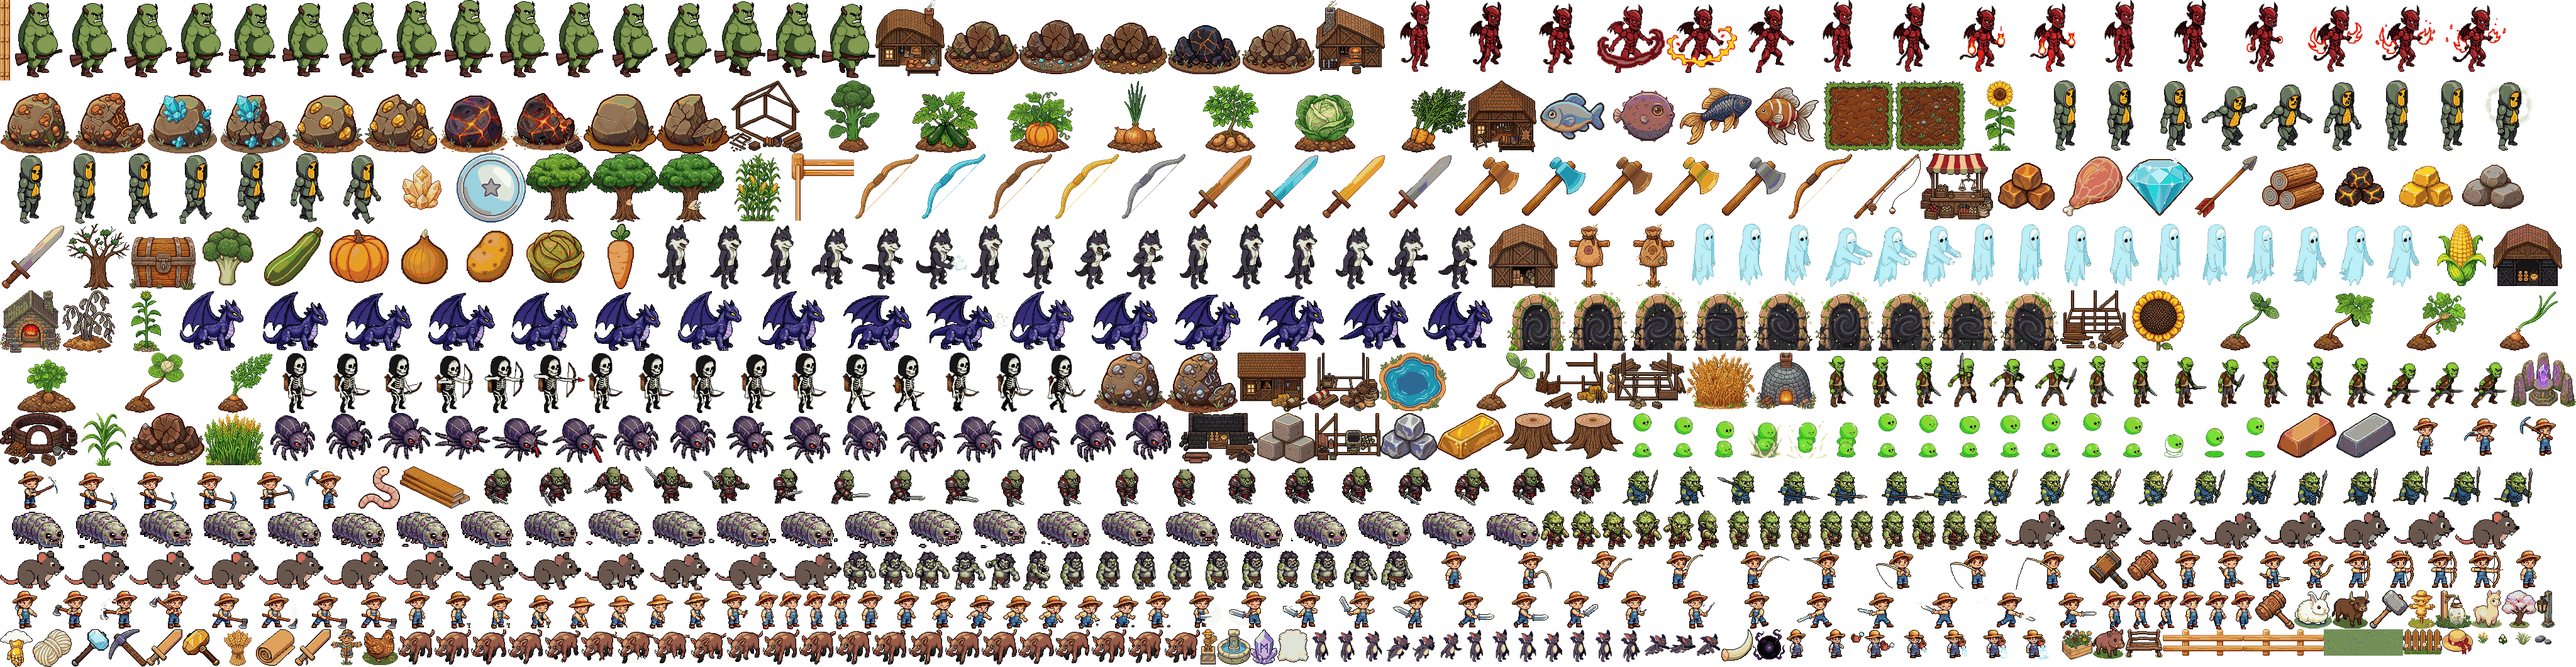
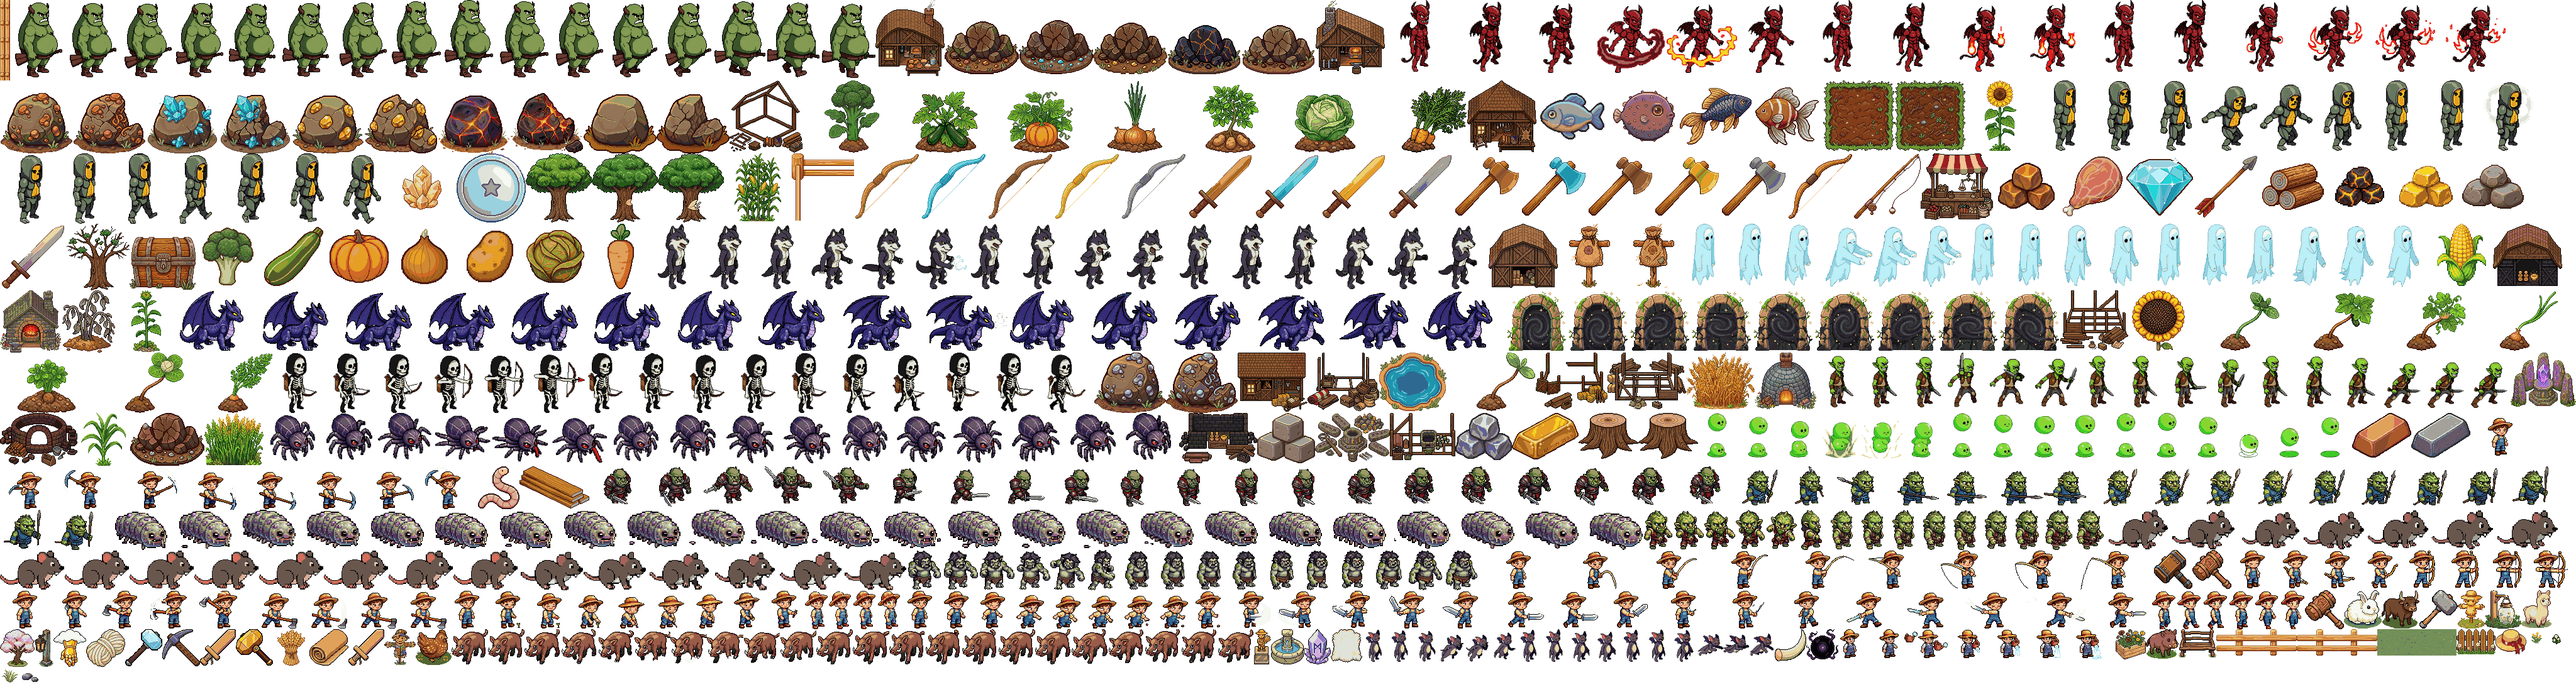
deploy mié 12/08/2026 19:47:57,85

diff --git a/public/game/boot.js b/public/game/boot.js
@@ -66,7 +66,7 @@ class BootScene extends Phaser.Scene {
     L.push(["skin_sombrero", P + "skin_sombrero.png"]);   // Sombrero de paja brillante (skin del cofre 10/8); si falta, hay respaldo por código
     L.push(["godhand", P + "godhand.png"]);   // GOD HAND 2.0 (11/8): el arte NFT del cropper
     // edificios EN OBRA (12/8): lo que se ve antes de construirlos (chau edificio gris)
-    ["market","barn","store","cocina","establo","curtiduria","ofrendas","horno"].forEach(k => L.push(["build_" + k, P + "build_" + k + ".png"]));
+    ["market","barn","store","cocina","establo","curtiduria","ofrendas","horno","altar"].forEach(k => L.push(["build_" + k, P + "build_" + k + ".png"]));
     L.push(["withered", P + "withered.png?v=2"]);      // cultivo marchito cozy
     // etapas intermedias (la verdura asomando al 50% del crecimiento)
     if (typeof CROP_ORDER !== "undefined") CROP_ORDER.forEach(k => L.push(["cropm_" + k, P + "cropm_" + k + ".png?v=3"]));
@@ -122,8 +122,8 @@ class BootScene extends Phaser.Scene {
   preload() {
     // ATLAS: todos los sprites del mundo en 2 archivos (mucho más liviano para el server free).
     // Si el atlas no llega, ensureAll() baja los archivos sueltos como respaldo.
-    this.load.image("__atlas", "assets/atlas.png?v=38");
-    this.load.json("__atlasmap", "assets/atlas.json?v=38");
+    this.load.image("__atlas", "assets/atlas.png?v=39");
+    this.load.json("__atlasmap", "assets/atlas.json?v=39");
 
     // No hay barra propia: la pantalla de carga es UNA sola, la del HTML, y le pasamos el avance.
     // (Antes había dos barras seguidas y el juego "aparecía" antes de estar listo.)

diff --git a/public/index.html b/public/index.html
@@ -6,8 +6,8 @@
 <title>Golden Farm</title>
 <!-- El atlas es lo más pesado del juego (386 KB con 329 sprites). Se empieza a bajar YA,
      en paralelo con el login y la carga de la partida, en vez de esperar a que Phaser arranque. -->
-<link rel="preload" as="image" href="assets/atlas.png?v=38">
-<link rel="preload" as="fetch" href="assets/atlas.json?v=38" crossorigin>
+<link rel="preload" as="image" href="assets/atlas.png?v=39">
+<link rel="preload" as="fetch" href="assets/atlas.json?v=39" crossorigin>
 <link rel="preconnect" href="https://cdn.jsdelivr.net" crossorigin>
 <link rel="preconnect" href="https://eusxpsmqczmczgyhndtd.supabase.co" crossorigin>
 <style>

diff --git a/CHANGELOG.md b/CHANGELOG.md
@@ -1857,9 +1857,13 @@ domo del horno.
 
 **Código**: el edificio sin construir ya no se dibuja gris semitransparente — muestra su
 `build_*` a todo color; al pagar la receta salta al edificio terminado con lluvia de
-estrellitas. El gris queda de respaldo solo para el Altar (sin arte de obra) y los
-árboles/rocas bloqueados. Claves `build_*` en el atlas (`?v=38`, 569 sprites) y con
-respaldo suelto en boot.js.
+estrellitas. Claves `build_*` en el atlas y con respaldo suelto en boot.js.
+
+Después se sumó el **Altar de Runas en obra** (generado en SU grupo de estilo original):
+la base circular a medias y los monolitos tumbados con las runas talladas pero APAGADAS —
+se "encienden" recién al construirlo. Con esto **ningún edificio queda gris**: los 9 de
+BUILD_DEF tienen su obra. El gris sobrevive solo en árboles/rocas bloqueados. Atlas final
+del día: `?v=39`, 570 sprites.
 
 ---
 

diff --git a/TODO.md b/TODO.md
@@ -4,7 +4,7 @@
 
 ## 🔴 Inmediato
 
-- [ ] **Deploy** (`deploy.bat`): atlas `?v=38` — set "mercadillo" completo (menos horno), árbol + talado, edificios EN OBRA reemplazando al gris, y todo lo del 11/8. Listo para subir.
+- [ ] **Deploy** (`deploy.bat`): atlas `?v=39` — set "mercadillo" completo (menos horno), árbol + talado, y los 9 edificios EN OBRA (altar incluido) reemplazando al gris. Listo para subir.
 - [ ] **Hojas caídas / suelo del talado** como piezas sueltas reutilizables (decisión 12/8: separadas del árbol).
 - [x] ~~Set de edificios estilo mercadillo~~ integrado (12/8) — ver CHANGELOG Día 17.
 - [x] ~~Mazos + God Hand~~ integrados (11/8).
